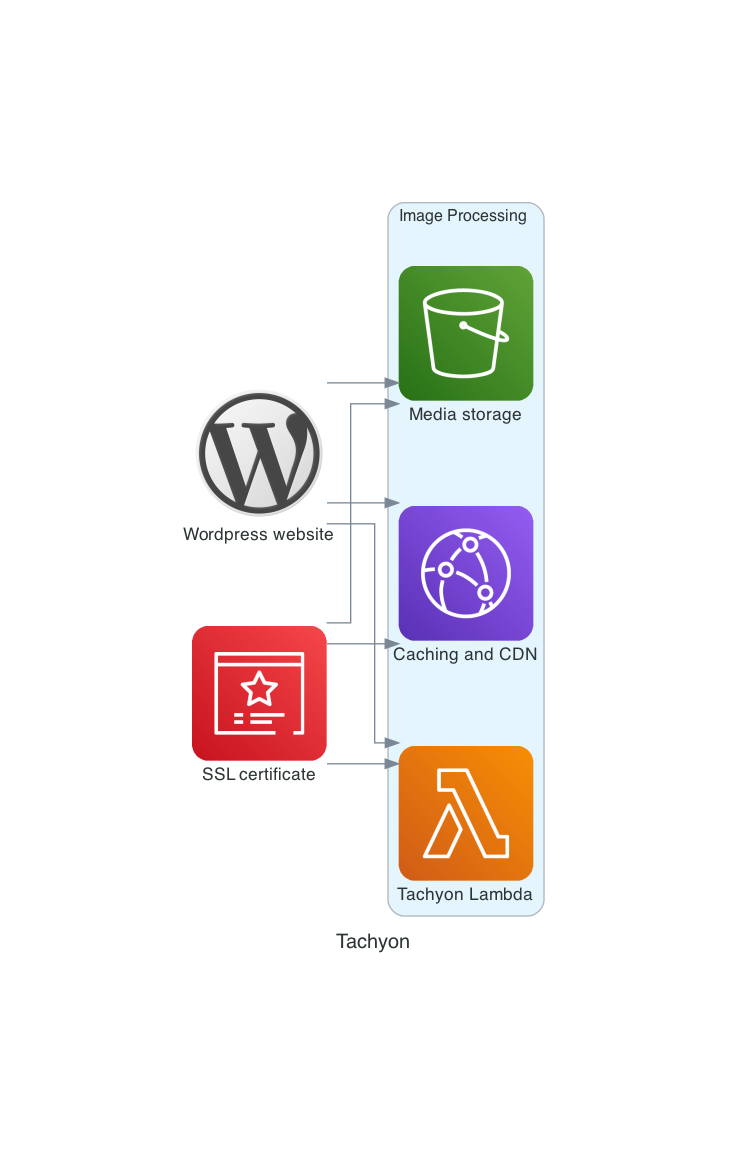
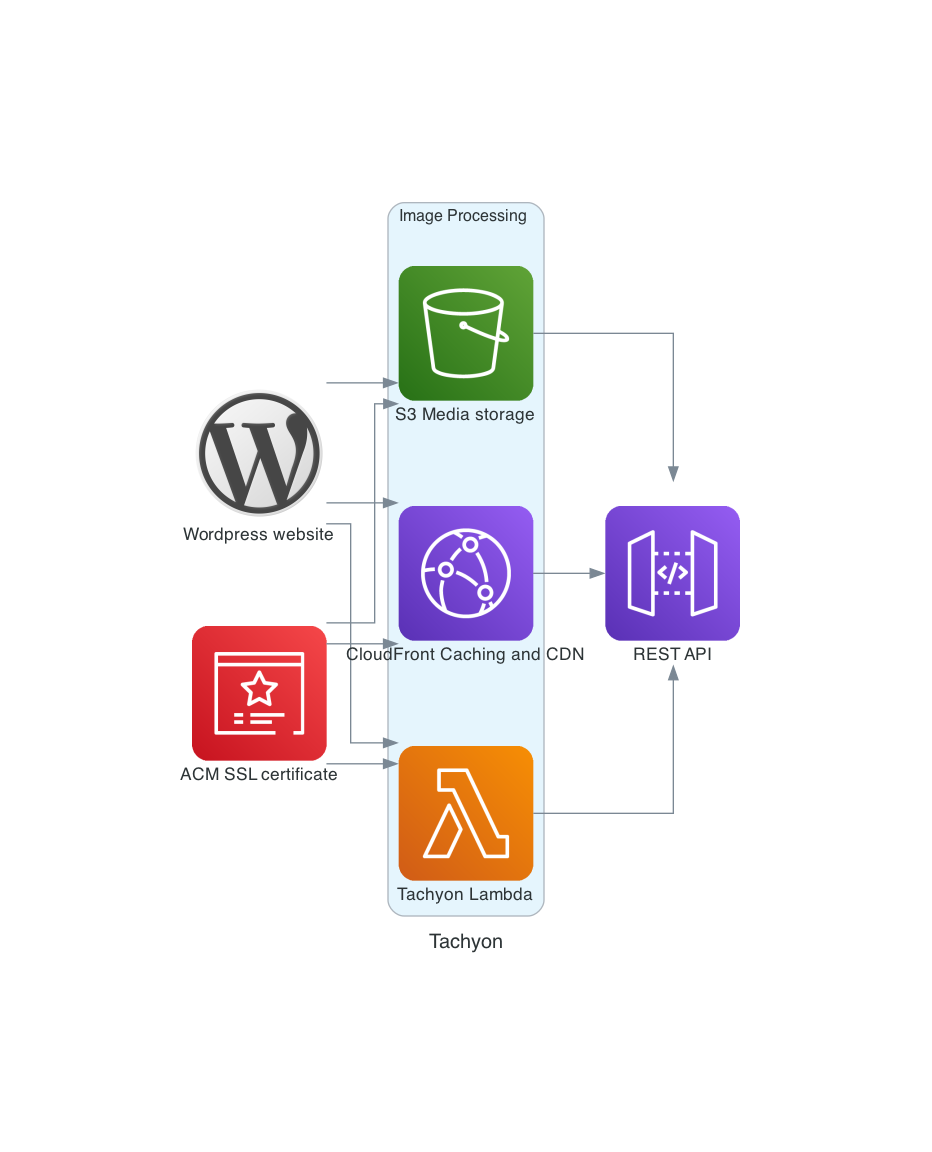
UPDATE: Tachyon diagram

Changed region(s): [[0.1847, 0.1562, 0.8005, 0.8438]]

diff --git a/tachyon.py b/tachyon.py
@@ -1,19 +1,22 @@
 from diagrams import Cluster, Diagram
 from diagrams.custom import Custom
 from diagrams.aws.network import CloudFront
+from diagrams.aws.network import APIGateway
 from diagrams.aws.security import ACM
 from diagrams.aws.storage import S3
 from diagrams.aws.compute import Lambda
 
 with Diagram("Tachyon", show=False):
     wordpress = Custom("Wordpress website", "./img/wordpress.png")
-    cert = ACM("SSL certificate")
+    cert = ACM("ACM SSL certificate")
+    api = APIGateway("REST API")
 
     with Cluster("Image Processing"):
         image_proc = [Lambda("Tachyon Lambda"),
-                      S3("Media storage"),
-                      CloudFront("Caching and CDN")]
+                      S3("S3 Media storage"),
+                      CloudFront("CloudFront\nCaching and CDN")]
 
     
     wordpress >> image_proc
     cert >> image_proc
+    image_proc >> api
